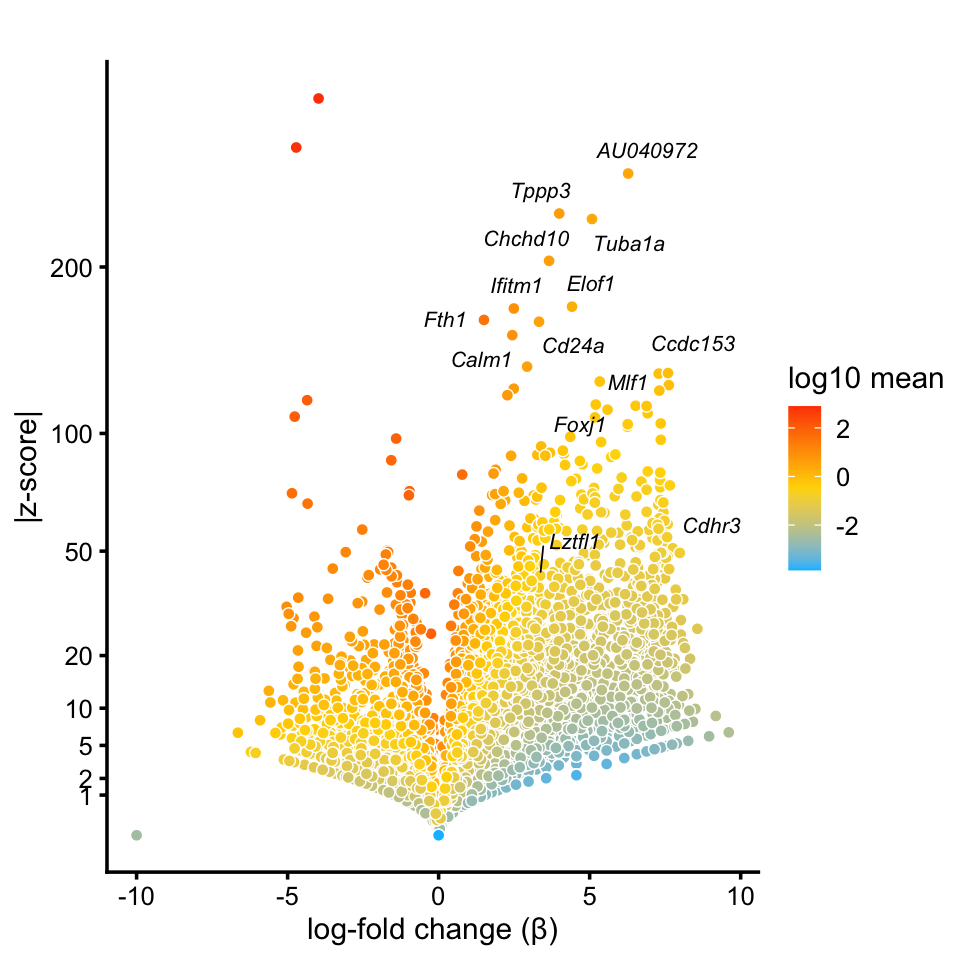
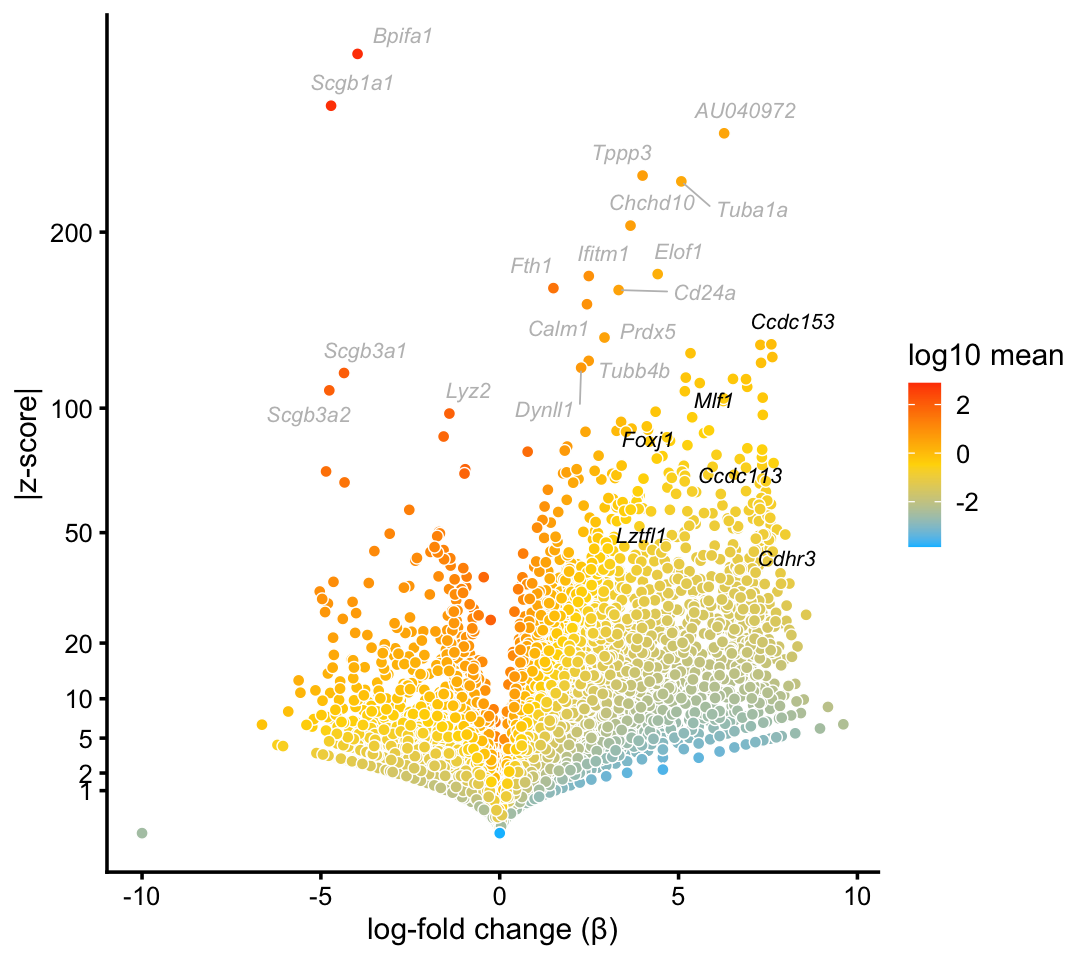
Improved volcano plots for ciliated cell type in plots_tracheal_epithelium analysis.

diff --git a/docs/plots_tracheal_epithelium.html b/docs/plots_tracheal_epithelium.html
@@ -323,7 +323,7 @@ $(document).ready(function () {
 <div class="tab-content">
 <div id="summary" class="tab-pane fade in active">
 <p>
-<strong>Last updated:</strong> 2020-09-22
+<strong>Last updated:</strong> 2020-09-23
 </p>
 <p>
 <strong>Checks:</strong> <span class="glyphicon glyphicon-ok text-success" aria-hidden="true"></span> 6 <span class="glyphicon glyphicon-exclamation-sign text-danger" aria-hidden="true"></span> 1
@@ -429,22 +429,23 @@ diff-count-analysis-topics-pulseseq
 <div class="panel panel-default">
 <div class="panel-heading">
 <p class="panel-title">
-<a data-toggle="collapse" data-parent="#workflowr-checks" href="#strongRepositoryversionstrongahrefhttpsgithubcomstephenslabsinglecelltopicstree6ccf99810c29df43cfb1efe7c7a636c8058ed8fbtargetblank6ccf998a"> <span class="glyphicon glyphicon-ok text-success" aria-hidden="true"></span> <strong>Repository version:</strong> <a href="https://github.com/stephenslab/single-cell-topics/tree/6ccf99810c29df43cfb1efe7c7a636c8058ed8fb" target="_blank">6ccf998</a> </a>
+<a data-toggle="collapse" data-parent="#workflowr-checks" href="#strongRepositoryversionstrongahrefhttpsgithubcomstephenslabsinglecelltopicstree516a32ee85f8000ea1fd0998fc5030b2db66f660targetblank516a32ea"> <span class="glyphicon glyphicon-ok text-success" aria-hidden="true"></span> <strong>Repository version:</strong> <a href="https://github.com/stephenslab/single-cell-topics/tree/516a32ee85f8000ea1fd0998fc5030b2db66f660" target="_blank">516a32e</a> </a>
 </p>
 </div>
[2 lines of base64/hex data omitted]
 <div class="panel-body">
 <p>
 Great! You are using Git for version control. Tracking code development and connecting the code version to the results is critical for reproducibility.
 </p>
 <p>
-The results in this page were generated with repository version <a href="https://github.com/stephenslab/single-cell-topics/tree/6ccf99810c29df43cfb1efe7c7a636c8058ed8fb" target="_blank">6ccf998</a>. See the <em>Past versions</em> tab to see a history of the changes made to the R Markdown and HTML files.
+The results in this page were generated with repository version <a href="https://github.com/stephenslab/single-cell-topics/tree/516a32ee85f8000ea1fd0998fc5030b2db66f660" target="_blank">516a32e</a>. See the <em>Past versions</em> tab to see a history of the changes made to the R Markdown and HTML files.
 </p>
 <p>
 Note that you need to be careful to ensure that all relevant files for the analysis have been committed to Git prior to generating the results (you can use <code>wflow_publish</code> or <code>wflow_git_commit</code>). workflowr only checks the R Markdown file, but you know if there are other scripts or data files that it depends on. Below is the status of the Git repository when the results were generated:
 </p>
 <pre><code>
 Ignored files:
+    Ignored:    analysis/figure/
     Ignored:    data/droplet.RData
     Ignored:    data/pbmc_68k.RData
     Ignored:    data/pbmc_purified.RData
@@ -498,6 +499,40 @@ Message
 </tr>
 </thead>
 <tbody>
+<tr>
+<td>
+Rmd
+</td>
+<td>
+<a href="https://github.com/stephenslab/single-cell-topics/blob/516a32ee85f8000ea1fd0998fc5030b2db66f660/analysis/plots_tracheal_epithelium.Rmd" target="_blank">516a32e</a>
+</td>
+<td>
+Peter Carbonetto
+</td>
+<td>
+2020-09-23
+</td>
+<td>
+workflowr::wflow_publish(“plots_tracheal_epithelium.Rmd”, verbose = TRUE)
+</td>
+</tr>
+<tr>
+<td>
+html
+</td>
+<td>
+<a href="https://rawcdn.githack.com/stephenslab/single-cell-topics/0ed5061eff987ada9a6387e5a2dd43b314014be5/docs/plots_tracheal_epithelium.html" target="_blank">0ed5061</a>
+</td>
+<td>
+Peter Carbonetto
+</td>
+<td>
+2020-09-22
+</td>
+<td>
+Added some rough, first-draft volcano plots to
+</td>
+</tr>
 <tr>
 <td>
 Rmd
@@ -1406,7 +1441,7 @@ counts_droplet &lt;- counts
 samples_droplet &lt;- readRDS(&quot;../output/droplet/clustering-droplet.rds&quot;)
 fit_droplet &lt;- readRDS(&quot;../output/droplet/rds/fit-droplet-scd-ex-k=7.rds&quot;)$fit
 rm(samples,counts)</code></pre>
-<p>For convenience, we show the Structure plot from the <a href="clusters_droplet.html">clustering analysis</a>, which summarizes the topic proportions in each of the 8 subsets:</p>
+<p>For reference, we show here the Structure plot from the <a href="clusters_droplet.html">clustering analysis of the droplet data</a>. This Structure plot summarizes the topic proportions in each of the 8 subsets.</p>
 <p><img src="figure/clusters_droplet.Rmd/structure-plot-1.png" /></p>
 <p>Next, load the larger “pulse-seq” data set, the <span class="math inline">\(k = 11\)</span> Poisson NMF model fit for these data, and the 7 clusters identified in the <a href="clusters_pulseseq.html">clustering analysis</a>.</p>
 <pre class="r"><code>load(&quot;../data/pulseseq.RData&quot;)
@@ -1414,12 +1449,12 @@ counts_pulseseq  &lt;- counts
 samples_pulseseq &lt;- readRDS(&quot;../output/pulseseq/clustering-pulseseq.rds&quot;)
 fit_pulseseq &lt;- readRDS(&quot;../output/pulseseq/rds/fit-pulseseq-scd-ex-k=11.rds&quot;)$fit
 rm(samples,counts)</code></pre>
-<p>For convenience, we show the Structure plot from the <a href="clusters_pulseseq.html">clustering analysis</a>, which summarizes the topic proportions in each of the 7 subsets:</p>
+<p>For reference, we show here the Structure plot from the <a href="clusters_pulseseq.html">clustering analysis of the pulse-seq data</a>. This Structure plot summarizes the topic proportions in each of the 7 subsets:</p>
 <p><img src="figure/clusters_pulseseq.Rmd/structure-plot-1.png" /></p>
 </div>
 <div id="differential-expression-analysis" class="section level2">
 <h2>Differential expression analysis</h2>
-<p>Perform differential expression analysis for the droplet data using the multinomial topic model.</p>
+<p>Perform differential expression analysis using the topic model fitted to the droplet data.</p>
 <pre class="r"><code>timing &lt;- system.time(
   diff_count_droplet &lt;- diff_count_analysis(fit_droplet,counts_droplet))
 cat(sprintf(&quot;Computation took %0.2f seconds.\n&quot;,timing[&quot;elapsed&quot;]))
@@ -1432,7 +1467,7 @@ cat(sprintf(&quot;Computation took %0.2f seconds.\n&quot;,timing[&quot;elapsed&q
 >knitr cache options</a> for more details.
 </p>
 </div>
-<p>Perform a differential expression analysis for the pulse-seq data using the multinomial topic model.</p>
+<p>Perform a differential expression analysis using the topic model fitted to the pulse-seq data.</p>
 <pre class="r"><code>timing &lt;- system.time(
   diff_count_pulseseq &lt;- diff_count_analysis(fit_pulseseq,counts_pulseseq))
 cat(sprintf(&quot;Computation took %0.2f seconds.\n&quot;,timing[&quot;elapsed&quot;]))
@@ -1445,7 +1480,7 @@ cat(sprintf(&quot;Computation took %0.2f seconds.\n&quot;,timing[&quot;elapsed&q
 >knitr cache options</a> for more details.
 </p>
 </div>
-<p>Perform a standard (cluster-based) differential expression analysis for the droplet data.</p>
+<p>Now, calculate differential expression statistics using the clusters identified in the droplet data.</p>
 <pre class="r"><code>fit_clusters_droplet &lt;-
   init_poisson_nmf_from_clustering(counts_droplet,samples_droplet$cluster)
 timing &lt;- system.time(
@@ -1462,7 +1497,7 @@ cat(sprintf(&quot;Computation took %0.2f seconds.\n&quot;,timing[&quot;elapsed&q
 >knitr cache options</a> for more details.
 </p>
 </div>
-<p>Perform a standard (cluster-based) differential expression analysis for the pulseseq data.</p>
+<p>And do the same in the pulse-seq data.</p>
 <pre class="r"><code>fit_clusters_pulseseq &lt;-
   init_poisson_nmf_from_clustering(counts_pulseseq,samples_pulseseq$cluster)
 timing &lt;- system.time(
@@ -1482,38 +1517,93 @@ cat(sprintf(&quot;Computation took %0.2f seconds.\n&quot;,timing[&quot;elapsed&q
 </div>
 <div id="ciliated-cells" class="section level2">
 <h2>Ciliated cells</h2>
-<p>Volcano plot for “Cil” cluster in droplet data:</p>
-<pre class="r"><code>ggplot_call &lt;- function (dat, y.label, topic.label)
-  ggplot(dat,aes_string(x = &quot;beta&quot;,y = &quot;y&quot;,fill = &quot;mean&quot;,label = &quot;label&quot;)) +
-    geom_point(color = &quot;white&quot;,stroke = 0.3,shape = 21,na.rm = TRUE) +
-    scale_y_continuous(trans = &quot;sqrt&quot;,
-      breaks = c(0,1,2,5,10,20,50,100,200,500,1e3,2e3,5e3,1e4,2e4,5e4)) +
-    scale_fill_gradient2(low = &quot;deepskyblue&quot;,mid = &quot;gold&quot;,high = &quot;orangered&quot;,
-                         midpoint = mean(range(dat$mean))) +
-    geom_text_repel(color = &quot;black&quot;,size = 2.25,fontface = &quot;italic&quot;,
-                    segment.color = &quot;black&quot;,segment.size = 0.25,
-                    max.overlaps = Inf,na.rm = TRUE) +
-    labs(x = &quot;log-fold change (\u03b2)&quot;,y = y.label,fill = &quot;log10 mean&quot;,
-         title = paste(&quot;topic&quot;,topic.label)) +
-    theme_cowplot(font_size = 9)
-genes_ciliated &lt;- c(&quot;Cdhr3&quot;,&quot;Foxj1&quot;,&quot;Ccdc153&quot;,&quot;Mlf1&quot;,&quot;Lztfl1&quot;)
-genes &lt;- colnames(counts_droplet)
-genes[!is.element(genes,genes_ciliated) &amp;
-      diff_count_clusters_droplet$Z[,&quot;Cil&quot;] &lt; 150] &lt;- &quot;&quot;
-p1 &lt;- volcano_plot(diff_count_clusters_droplet,k = &quot;Cil&quot;,labels = genes,
-                   label_above_quantile = 0,ggplot_call = ggplot_call) +
-      labs(title = &quot;&quot;)
+<p>Volcano plot for “Cil” cluster in droplet data. Notes: The cluster for the ciliated cells is one of the best separated clusters in both the droplet and pulse-seq data. Marker genes and transcription factors for ciliated cells mentioned in Montoro <em>et al</em> (2018) are shown in black.</p>
+<pre class="r"><code>cilitated_genes &lt;- c(&quot;Ccdc113&quot;,&quot;Ccdc153&quot;,&quot;Cdhr3&quot;,&quot;Foxj1&quot;,&quot;Lztfl1&quot;,&quot;Mlf1&quot;)
+p1 &lt;- volcano_plot_with_highlighted_genes(diff_count_clusters_droplet,&quot;Cil&quot;,
+                                          cilitated_genes,
+                                          label_above_quantile = 0.998)
 print(p1)</code></pre>
-<p><img src="figure/plots_tracheal_epithelium.Rmd/volcano-plot-droplet-cil-1.png" width="480" style="display: block; margin: auto;" /></p>
+<p><img src="figure/plots_tracheal_epithelium.Rmd/volcano-plot-droplet-cil-1.png" width="540" style="display: block; margin: auto;" /></p>
+<p>
+<button type="button" class="btn btn-default btn-xs btn-workflowr btn-workflowr-fig" data-toggle="collapse" data-target="#fig-volcano-plot-droplet-cil-1">
+Past versions of volcano-plot-droplet-cil-1.png
+</button>
+</p>
+<div id="fig-volcano-plot-droplet-cil-1" class="collapse">
+<div class="table-responsive">
+<table class="table table-condensed table-hover">
+<thead>
+<tr>
+<th>
+Version
+</th>
+<th>
+Author
+</th>
+<th>
+Date
+</th>
+</tr>
+</thead>
+<tbody>
+<tr>
+<td>
+<a href="https://github.com/stephenslab/single-cell-topics/blob/0ed5061eff987ada9a6387e5a2dd43b314014be5/docs/figure/plots_tracheal_epithelium.Rmd/volcano-plot-droplet-cil-1.png" target="_blank">0ed5061</a>
+</td>
+<td>
+Peter Carbonetto
+</td>
+<td>
+2020-09-22
+</td>
+</tr>
+</tbody>
+</table>
+</div>
+</div>
 <p>Volcano plot for “Cil” cluster in pulse-seq data:</p>
-<pre class="r"><code>genes &lt;- colnames(counts_pulseseq)
-genes[!is.element(genes,genes_ciliated) &amp;
-      diff_count_clusters_pulseseq$Z[,&quot;Cil&quot;] &lt; 300] &lt;- &quot;&quot;
-p2 &lt;- volcano_plot(diff_count_clusters_pulseseq,k = &quot;Cil&quot;,labels = genes,
-                   label_above_quantile = 0,ggplot_call = ggplot_call) +
-      labs(title = &quot;&quot;)
+<pre class="r"><code>p2 &lt;- volcano_plot_with_highlighted_genes(diff_count_clusters_pulseseq,&quot;Cil&quot;,
+                                          cilitated_genes,
+                                          label_above_quantile = 0.998)
 print(p2)</code></pre>
-<p><img src="figure/plots_tracheal_epithelium.Rmd/volcano-plot-pulseseq-cil-1.png" width="480" style="display: block; margin: auto;" /></p>
+<p><img src="figure/plots_tracheal_epithelium.Rmd/volcano-plot-pulseseq-cil-1.png" width="540" style="display: block; margin: auto;" /></p>
+<p>
+<button type="button" class="btn btn-default btn-xs btn-workflowr btn-workflowr-fig" data-toggle="collapse" data-target="#fig-volcano-plot-pulseseq-cil-1">
+Past versions of volcano-plot-pulseseq-cil-1.png
+</button>
+</p>
+<div id="fig-volcano-plot-pulseseq-cil-1" class="collapse">
+<div class="table-responsive">
+<table class="table table-condensed table-hover">
+<thead>
+<tr>
+<th>
+Version
+</th>
+<th>
+Author
+</th>
+<th>
+Date
+</th>
+</tr>
+</thead>
+<tbody>
+<tr>
+<td>
+<a href="https://github.com/stephenslab/single-cell-topics/blob/0ed5061eff987ada9a6387e5a2dd43b314014be5/docs/figure/plots_tracheal_epithelium.Rmd/volcano-plot-pulseseq-cil-1.png" target="_blank">0ed5061</a>
+</td>
+<td>
+Peter Carbonetto
+</td>
+<td>
+2020-09-22
+</td>
+</tr>
+</tbody>
+</table>
+</div>
+</div>
 </div>
 <div id="ionocytes" class="section level2">
 <h2>Ionocytes</h2>
@@ -1527,7 +1617,6 @@ p3 &lt;- volcano_plot(diff_count_clusters_pulseseq,k = &quot;I&quot;,labels = ge
                    label_above_quantile = 0,ggplot_call = ggplot_call) +
       labs(title = &quot;&quot;)
 print(p3)</code></pre>
-<p><img src="figure/plots_tracheal_epithelium.Rmd/volcano-plot-pulseseq-I-1.png" width="480" style="display: block; margin: auto;" /></p>
 <p>We detect a very small cluster of ionocytes in the droplet data, at least using <em>Foxi1</em> as a marker for ionocytes:</p>
 <pre class="r"><code>pca  &lt;- prcomp(poisson2multinom(fit_droplet)$L)$x
 pdat &lt;- data.frame(PC1  = pca[,1],
@@ -1540,7 +1629,6 @@ p4 &lt;- ggplot(pdat,aes(x = PC1,y = PC2,fill = Foxi1)) +
   theme_cowplot(font_size = 10) +
   labs(fill = &quot;expression level&quot;)
 print(p4)</code></pre>
-<p><img src="figure/plots_tracheal_epithelium.Rmd/pca-plot-droplet-Foxi1-1.png" width="480" style="display: block; margin: auto;" /></p>
 </div>
 <div id="goblet-cells" class="section level2">
 <h2>Goblet cells</h2>
@@ -1550,7 +1638,6 @@ genes &lt;- colnames(counts_droplet)
 p5 &lt;- volcano_plot(diff_count_clusters_droplet,k = &quot;G&quot;,labels = genes) +
       labs(title = &quot;&quot;)
 print(p5)</code></pre>
-<p><img src="figure/plots_tracheal_epithelium.Rmd/volcano-plot-droplet-G-1.png" width="360" style="display: block; margin: auto;" /></p>
 <br>
 <p>
 <button type="button" class="btn btn-default btn-workflowr btn-workflowr-sessioninfo" data-toggle="collapse" data-target="#workflowr-sessioninfo" style="display: block;">
